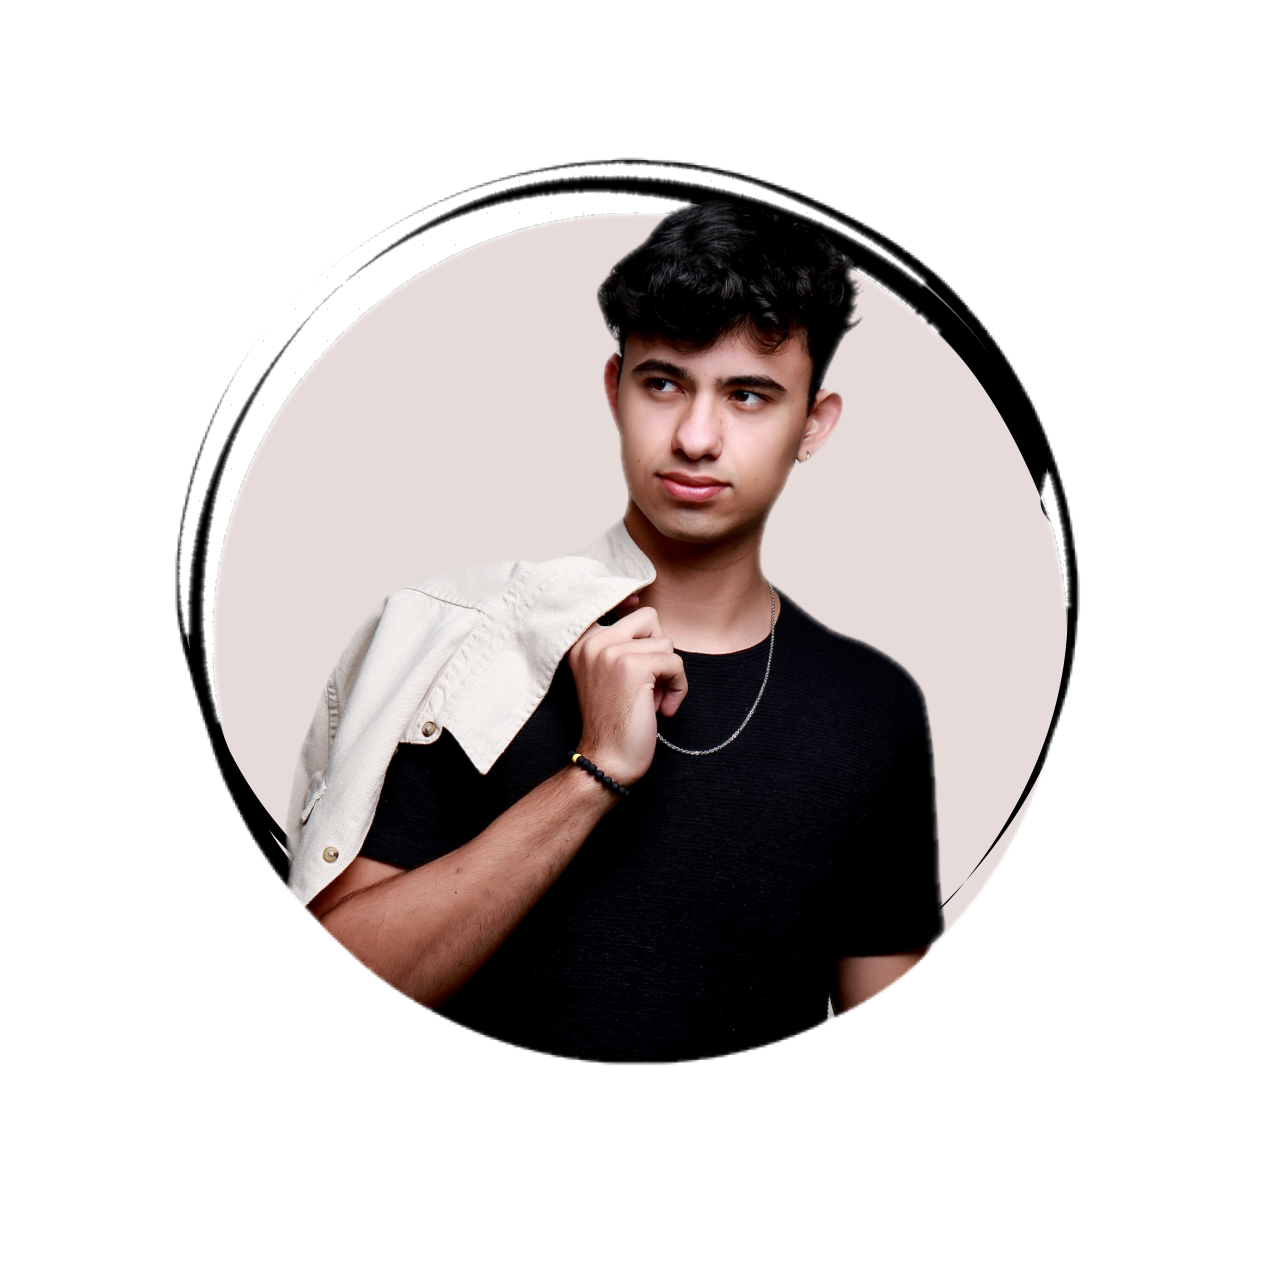
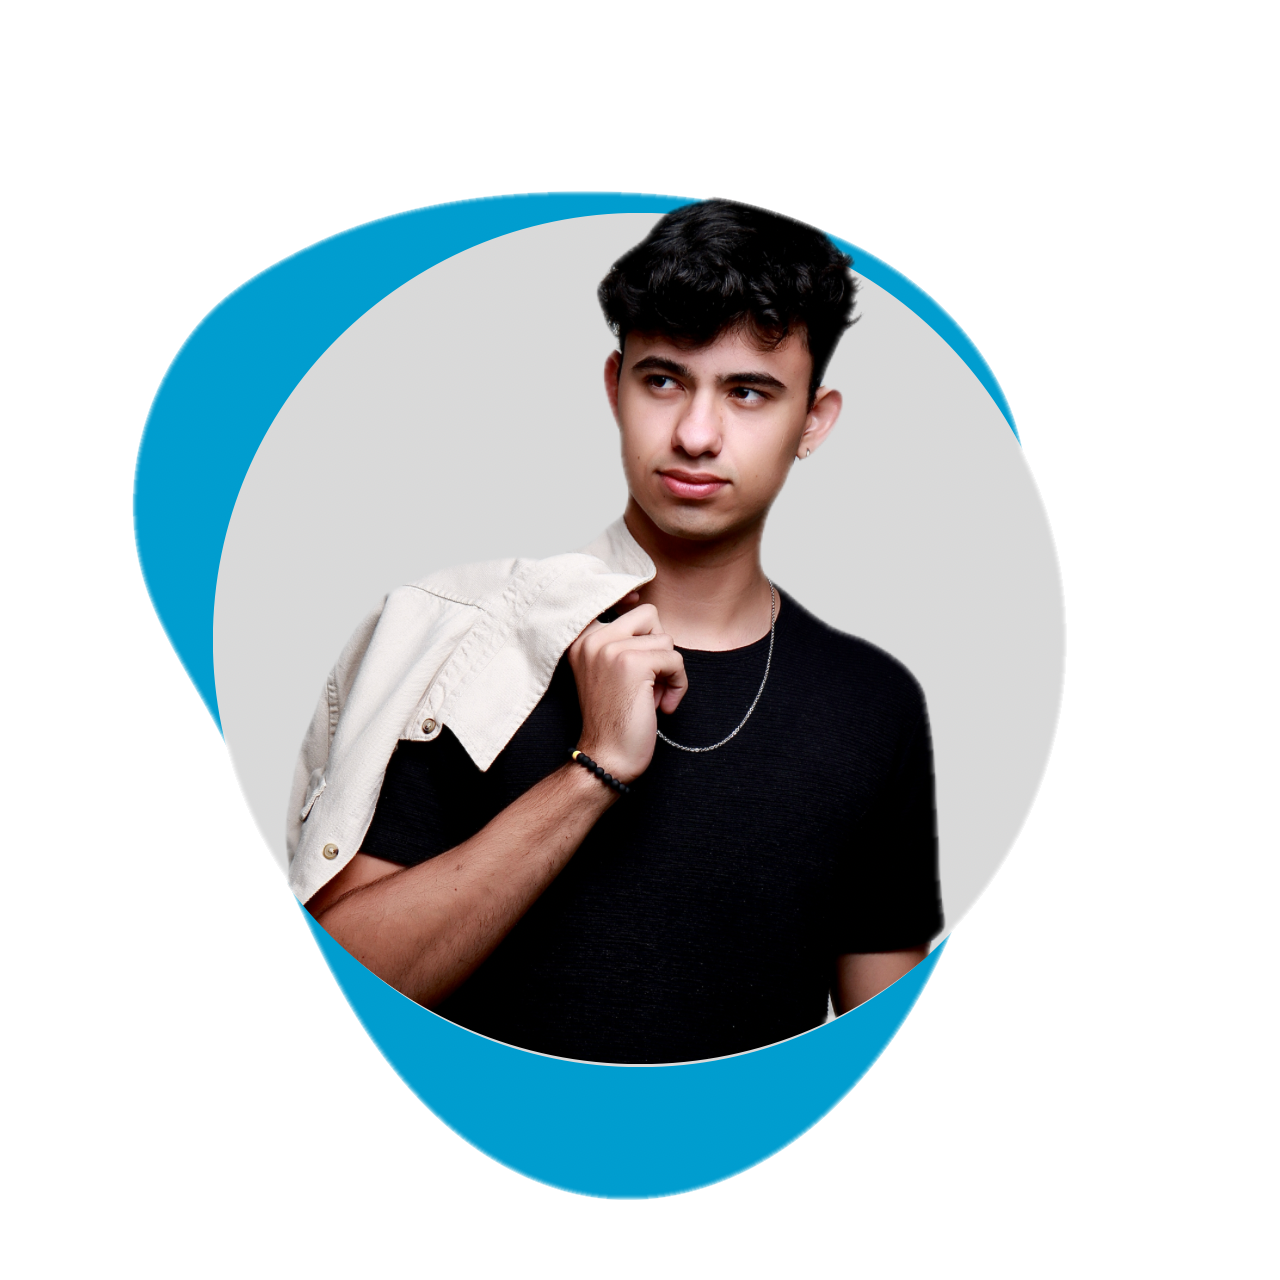
Atualizando a página SOBRE

diff --git a/sobre.html b/sobre.html
@@ -28,15 +28,15 @@
                     <img src="fotos/sobre.PNG" alt="Thiago Ferro">
                 </div>
                 <div class="c">
-                    <p>Sou um desenvolvedor web atualmente em fase de aprendizado, atualmente estou estudando HTML, CSS, javascript e python.
+                    <p>Sou um desenvolvedor web atualmente em fase de aprendizado, estou estudando HTML, CSS, javascript e python.
                         Tenho 21 anos e estudo na Universidade Paulista (UNIP), desde pequeno eu gostava de computadores e jogos, e sempre me perguntei
-                        como eram feitos, sendo jogos sites ou aplicativos, até que um dia eu inspecionei um site de jogo web, e vi aquelas linhas de códigos
-                        sem saber como elas funcionavam, eu decidi ir mais atrás sobre, quando comecei a entender como funcionava o HTML eu fiquei deslumbrado,
-                        mas acabei não me aprofundando muito mais, anos mais tarde entrei na faculdade e comecei a estudar mais, entender um pouco mais como funcionava
-                        tudo, porém não sentia realmente um aprendizado e as matérias não me cativavam tanto, porém quando comecei a realmente estudar por conta e me
-                        aprofundar mais, eu sentia orgulho da minha evolução e me apaixonei realmente pelo que estava fazendo ali.
+                        como eram feitos, sendo jogos, sites ou aplicativos, até que um dia eu inspecionei um site de jogo web, e vi aquelas linhas de códigos
+                        sem saber como elas funcionavam, eu decidi saber sobre aqueles códigos, quando comecei a entender como funcionava o HTML eu fiquei deslumbrado,
+                        mas acabei não me aprofundando muito, anos mais tarde entrei na faculdade e comecei a estudar esses códigos, entender como funcionavam,
+                        porém não sentia realmente um aprendizado e as matérias não me cativavam tanto, quando comecei a realmente estudar por conta e me
+                        aprofundar, eu sentia orgulho da minha evolução e me apaixonei realmente pelo que estava fazendo ali.
                     </p>
-                    <p> Hoje eu estou a procura por oportunidades pessoais ou profissionais para aprimorar cada vez mais as minhas habilidades de desenvolver, estou sempre a procura de
+                    <p> Hoje eu estou a procura por oportunidades pessoais ou profissionais para aprimorar minhas habilidades de desenvolver, estou sempre a procura de
                         mais desafios.
 
                     </p>

diff --git a/CSS/styles2.css b/CSS/styles2.css
@@ -7,7 +7,7 @@
 
 
 body{
-	height: 800px;
+	height: 600px;
 	max-width: 1200px;
 	width: 100%;
 	min-height: 100vh;
@@ -70,7 +70,6 @@ nav li{
 
 
 .container {
-	text-align: center;
 	color: white;
 	font-size: 16px;
 }
@@ -94,10 +93,10 @@ nav li{
     display: flex;
 }
 
-.img{
-    position: absolute;
-	top: 57%;
-	left: 30%;
+img{
+    position: relative;
+    top: 65%;
+	left: 60%;
 	transform: translate(-50%,-50%) ;
 }
 
@@ -141,7 +140,7 @@ p {
 	.container{
 		flex-wrap: wrap;
 	}
-	.menu, .inicio, .c{
+	.menu, .inicio, .imagem, .c{
 		display: block;
 	}
 }
